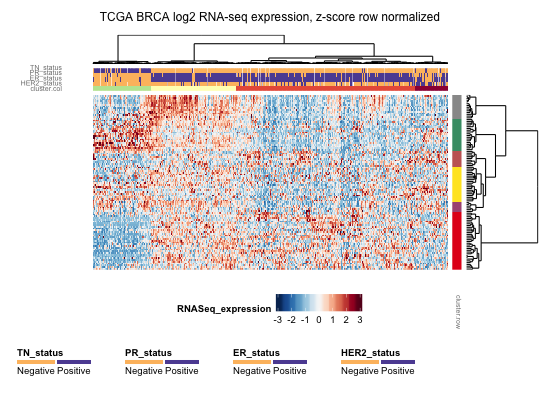
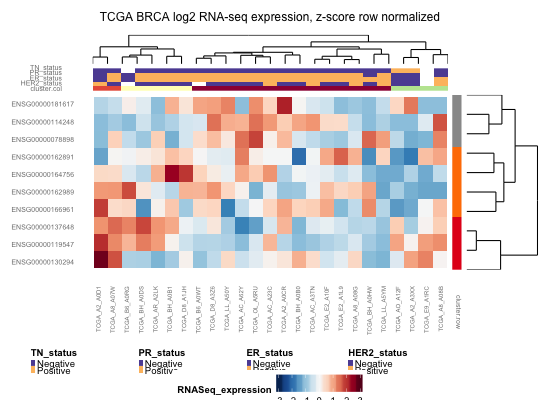
re-made html pages for heatmap.ggplot2

diff --git a/CBMRtools/inst/web/heatmap.ggplot2.html b/CBMRtools/inst/web/heatmap.ggplot2.html
@@ -150,7 +150,7 @@ grid.arrange(p1)
 x&lt;-exprs(eSet1)
 x&lt;-x[rev(1:nrow(x)),]
 hc.row&lt;-hcopt(stats::as.dist(1-cor(t(x))),method=&quot;ward.D&quot;)
-hc.col &lt;- hcopt(stats::dist(t(x)), method=&quot;ward.D&quot;) #&#39;
+hc.col &lt;- hcopt(stats::dist(t(x)), method=&quot;ward.D&quot;)
 
 #Adding custom hclust object in col.clust.hc and row.clust.hc
 p2 &lt;- heatmap.ggplot2(eSet=eSet1, col.clust = TRUE, row.clust = TRUE,
@@ -165,6 +165,7 @@ row.scaling = &quot;z-score.capped&quot;,
 z.norm = FALSE,
 cuttree.col = 4, cuttree.row = 3,
 verbose = FALSE, show = FALSE)
+grid.newpage()
 grid.arrange(p2)
 </div>
 <p><img src='heatmap.ggplot2-4.png' alt='' width='540' height='400' /></p>
@@ -183,20 +184,45 @@ row.scaling = &quot;z-score.capped&quot;,
 z.norm = FALSE,
 cuttree.col = 4, cuttree.row = 3,
 verbose = TRUE, show = FALSE)
+grid.newpage()
 grid.arrange(p3$heatmap)
 </div>
 <p><img src='heatmap.ggplot2-6.png' alt='' width='540' height='400' /></p>
 <div class='input'>##ggsave(p3, file = &quot;p3.pdf&quot;)
 
-meta.c.lab&lt;-levels(unique(p3$meta.c$id))
-meta.c.color.string&lt;-c(&quot;yellow&quot;, &quot;khaki3&quot;, &quot;gold&quot;, &quot;chocolate&quot;, &quot;darkred&quot;, &quot;cyan&quot;, &quot;white&quot;)
-meta.c.color&lt;-as.character(sapply(meta.c.color.string, to.hex))
-
-meta.r.lab&lt;-levels(unique(p3$meta.r$id))
-meta.r.color.string&lt;-c(&quot;pink&quot;, &quot;azure&quot;, &quot;green&quot;)
-meta.r.color&lt;-as.character(sapply(meta.r.color.string, to.hex))
-
 #Adding custom colors to column and row annotation labels
+print(p3$meta.c$id)
+</div>
+<div class='output'>  [1] 4        4        2        2        2        2        2        3       
+  [9] 3        3        3        3        3        3        3        3       
+ [17] 3        3        3        3        3        1        1        1       
+ [25] 1        Positive Negative &lt;NA&gt;     Negative Negative Negative Negative
+ [33] &lt;NA&gt;     Negative Negative Negative Negative Positive Negative Negative
+ [41] Positive Negative Negative Positive Negative Positive Negative Negative
+ [49] &lt;NA&gt;     Positive Negative Positive Negative Positive Positive Positive
+ [57] Positive Positive Positive Positive Positive Positive Positive Positive
+ [65] Positive Positive Positive Positive Positive Positive Positive Negative
+ [73] Negative &lt;NA&gt;     Positive Negative Positive Negative Positive Positive
+ [81] Positive Positive Positive Positive Positive Positive Positive Positive
+ [89] Positive Positive Positive Positive Positive Positive Negative Positive
+ [97] Negative Negative &lt;NA&gt;     Negative Negative Negative &lt;NA&gt;     Negative
+[105] Negative Negative Negative Negative Negative Negative Negative Negative
+[113] Negative Negative Negative Negative Negative Negative Negative Negative
+[121] Negative Positive Positive &lt;NA&gt;     Negative
+Levels: 4 2 3 1 Positive Negative
+</div>
+<div class='input'>meta.c.color.string&lt;-c(&quot;yellow&quot;, &quot;khaki3&quot;, &quot;gold&quot;, &quot;chocolate&quot;, &quot;darkred&quot;, &quot;cyan&quot;)
+meta.c.color&lt;-as.character(sapply(meta.c.color.string, to.hex))
+names(meta.c.color)&lt;-c(&quot;Negative&quot;, &quot;Positive&quot;, &quot;1&quot;, &quot;2&quot;, &quot;3&quot;, &quot;4&quot;)
+print(p3$meta.r$id)
+</div>
+<div class='output'> [1] 1 1 1 2 2 2 2 3 3 3
+Levels: 1 2 3
+</div>
+<div class='input'>meta.r.color.string&lt;-c(&quot;pink&quot;, &quot;azure&quot;, &quot;green&quot;)
+meta.r.color&lt;-as.character(sapply(meta.r.color.string, to.hex))
+names(meta.r.color)&lt;-c(&quot;1&quot;, &quot;2&quot;, &quot;3&quot;)
+
 p4&lt;-heatmap.ggplot2(eSet=eSet1,
 col.legend.brewer = meta.c.color,
 row.legend.brewer = meta.r.color,
@@ -212,11 +238,10 @@ row.scaling = &quot;z-score.capped&quot;,
 z.norm = FALSE,
 cuttree.col = 4, cuttree.row = 3,
 verbose = FALSE, show = FALSE)
+grid.newpage()
+grid.arrange(p4)
 </div>
-<strong class='error'>Error in heatmap.ggplot2(eSet = eSet1, col.legend.brewer = meta.c.color, : col.legend.brewer must have names representing ids of color labels</strong>
-<div class='input'>grid.arrange(p4)
-</div>
-<strong class='error'>Error in arrangeGrob(...): object &#39;p4&#39; not found</strong>
+<p><img src='heatmap.ggplot2-12.png' alt='' width='540' height='400' /></p>
 <div class='input'>#ggsave(p4, file = &quot;p4.pdf&quot;)
 </div></pre>
   </div>
